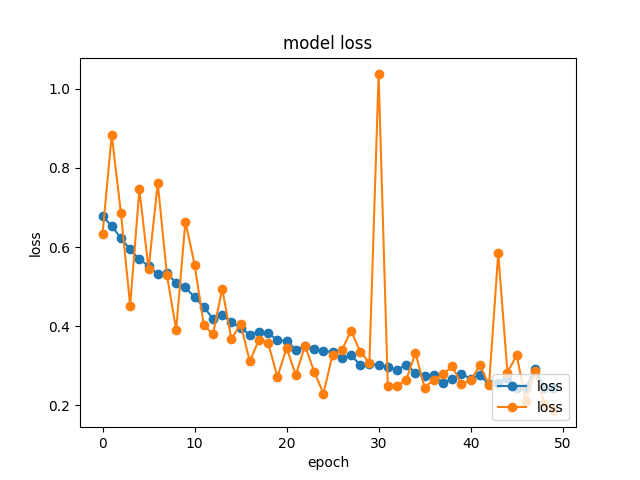
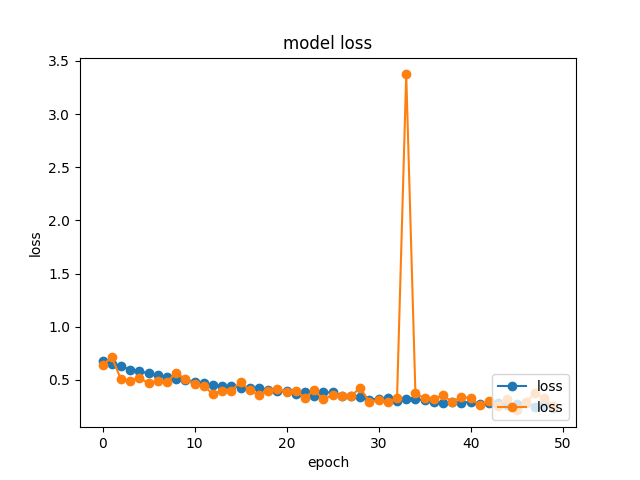
[fix]損失関数の戻り値をスカラーにしたら動いた

diff --git a/src/model.py b/src/model.py
@@ -24,6 +24,7 @@ import data_loader
 
 EPOCHS = 50
 BATCH_SIZE = 16
+PENALTY = 100
 
 
 class Foreigner_classifier():
@@ -60,7 +61,7 @@ class Foreigner_classifier():
             json_model = f.read()
         self.model = model_from_json(json_model)
         self.model.compile(loss="categorical_crossentropy",
-                           optimizer="adam",
+                           optimizer=lean_weight_loss,
                            metrics=["accuracy"])
         self.model.load_weights(pre_trained_model_path + ".h5")
 
@@ -175,7 +176,7 @@ def get_callbacks(checkpoint_path, patience=2):
 def lean_weight_loss(y_true, y_pred):
     loss_jpn = y_true[:, 0] * K.log(y_pred[:, 0])
     loss_frn = y_true[:, 1] * K.log(y_pred[:, 1])
-    return loss_jpn + loss_frn * 10
+    return -K.sum(loss_jpn + loss_frn * PENALTY)
 
 
 def main():
